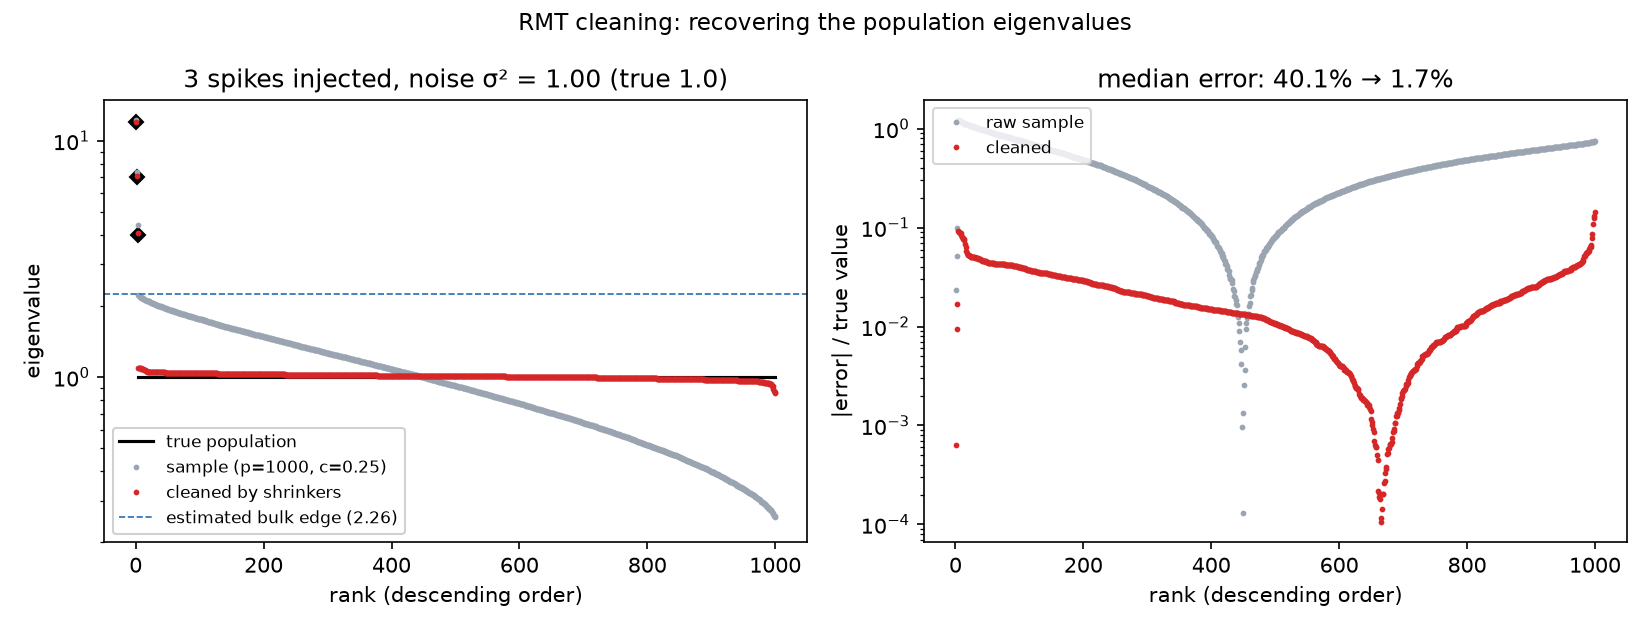
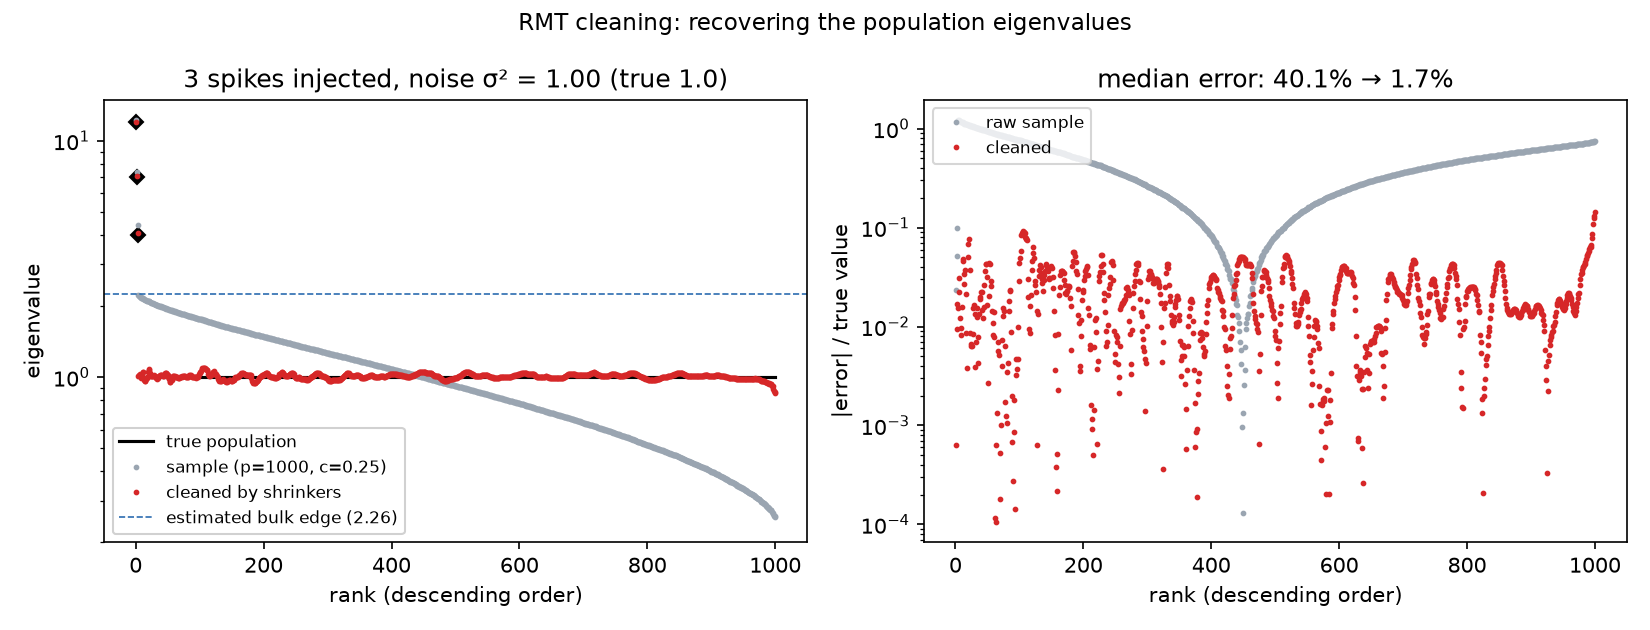
fix(readme): align the cleaned series with the sample ranks in figure 1
The cleaned series was sorted by value before plotting, so the red curve was
the order statistic of the cleaned spectrum while the grey sample and black
truth curves followed their own rank order. estimate_population_eigenvalues is
a pointwise map, so the two orderings put features at different ranks: the red
error curve's minimum sat at rank ~666 against the sample's ~449, which reads
as a horizontal shift on the figure.

Keep the cleaned estimates in the sample-eigenvalue order (spikes descending,
bulk_population reversed to match the descending bulk sample) and assert the
alignment. The multiset of cleaned values — hence the 1.7 % median error — is
unchanged; only the rank alignment is. The caption's "within 1 %" for spike
estimates whose worst error is 1.7 % (4.07 vs 4.00) becomes "within 2 %".

Verified: the red and black/grey series now share their features' ranks, and
scripts/make_readme_figures.py --reuse reproduces both PNGs bit for bit.

Changed region(s): [[0.5564, 0.3619, 0.9582, 0.8143], [0.0618, 0.573, 0.4636, 0.6333], [0.5873, 0.6333, 0.6182, 0.7238]]

diff --git a/scripts/make_readme_figures.py b/scripts/make_readme_figures.py
@@ -55,20 +55,32 @@ def fig_cleaning() -> dict:
     truth_desc, sample_desc = simulate_spiked(p, spikes, seed=42)
 
     res = rk.estimate_population_eigenvalues(np.sort(sample_desc), c=C)
-    cleaned_desc = np.sort(
-        np.concatenate([res["spikes"], res["bulk_population"]])
-    )[::-1]
-    # Sanity: every series must be genuinely descending so rank i aligns
-    # across panels (a previous revision plotted the truth ascending).
+
+    # The cleaned estimates must stay in the SAMPLE-eigenvalue order, not be
+    # sorted by value: `spikes` is descending and `bulk_population` is parallel
+    # to the *ascending* `bulk_sample`, so reversing the latter lines every
+    # estimate up with the sample eigenvalue it came from. Sorting the cleaned
+    # values (what this figure used to do) instead turns the red curve into an
+    # order statistic whose features sit at different ranks from the sample's,
+    # which reads as a horizontal shift against the grey and black curves. The
+    # multiset of cleaned values — hence the median error — is identical either
+    # way; only the rank alignment changes.
+    k = len(spikes)
+    assert res["k"] == k, f"expected {k} detected spikes, got {res['k']}"
+    assert np.allclose(res["spike_sample"], sample_desc[:k])
+    cleaned_desc = np.concatenate(
+        [res["spikes"], np.asarray(res["bulk_population"])[::-1]]
+    )
+    assert cleaned_desc.shape == sample_desc.shape
+    # Truth and sample are genuinely descending; the cleaned series follows the
+    # sample's ranks, so it is only descending up to the estimator's noise.
     assert truth_desc[0] > truth_desc[1] > truth_desc[2], truth_desc[:4]
     assert sample_desc[0] > sample_desc[1], sample_desc[:3]
-    assert cleaned_desc[0] > cleaned_desc[1], cleaned_desc[:3]
 
     fig, axes = plt.subplots(1, 2, figsize=(11, 4.2))
 
     ax = axes[0]
     idx = np.arange(1, p + 1)
-    k = len(spikes)
     # Bulk as a line starting AFTER the spike ranks (no vertical jump in the
     # trace); the spikes themselves are isolated scatter markers.
     ax.plot(idx[k:], truth_desc[k:], "-", color="black", lw=1.5,

diff --git a/CHANGELOG.md b/CHANGELOG.md
@@ -5,6 +5,20 @@ Format follows [Keep a Changelog](https://keepachangelog.com/en/1.1.0/).
 
 ## [Unreleased]
 
+### Fixed — rank alignment of the cleaning-quality README figure
+
+`scripts/make_readme_figures.py` sorted the cleaned estimates by value before
+plotting them, so the red curve was the *order statistic* of the cleaned
+spectrum while the grey sample and black truth curves were in their own rank
+order. `estimate_population_eigenvalues` is a pointwise map, so the two
+orderings put features at different ranks: the red error curve's minimum sat at
+rank ~666 against the sample's rank ~449, which reads as a horizontal shift on
+the figure. The cleaned series now stays in the sample-eigenvalue order
+(`spikes` descending, `bulk_population` reversed to match the descending bulk
+sample). The multiset of cleaned values — and therefore the median error, 1.7 %
+— is unchanged; only the alignment is. The caption also said "within 1 %" for
+spike estimates whose worst error is 1.7 % (4.07 vs 4.00), now "within 2 %".
+
 ### Added — complex Hermitian correlation-matrix cleaning
 
 `clean_correlation_matrix` assumed real symmetric input, which is what a

diff --git a/README.md b/README.md
@@ -40,10 +40,12 @@ high-dimensional covariance are biased artifacts: the bulk is smeared over
 ![Cleaning quality](docs/img/cleaning_quality.png)
 
 *Spiked model, p = 1000, c = 0.25, σ² = 1, three spikes injected at 12 / 7 / 4.
-All 3 spikes are detected and debiased to within 1 % (12.01 / 7.07 / 4.07),
+All 3 spikes are detected and debiased to within 2 % (12.01 / 7.07 / 4.07),
 the noise level is estimated at σ̂² = 1.002, and the median relative error
 against the true population eigenvalues drops from **40 % to 1.7 %** in a
-single call (`estimate_population_eigenvalues`).*
+single call (`estimate_population_eigenvalues`). Each red point is the cleaned
+value of the sample eigenvalue at the same rank — the estimator is a pointwise
+map, so the ranks are not re-sorted.*
 
 **2 · It is absurdly fast for what it computes.** Same math as your NumPy
 one-liner, orders of magnitude faster — compared below against the two
